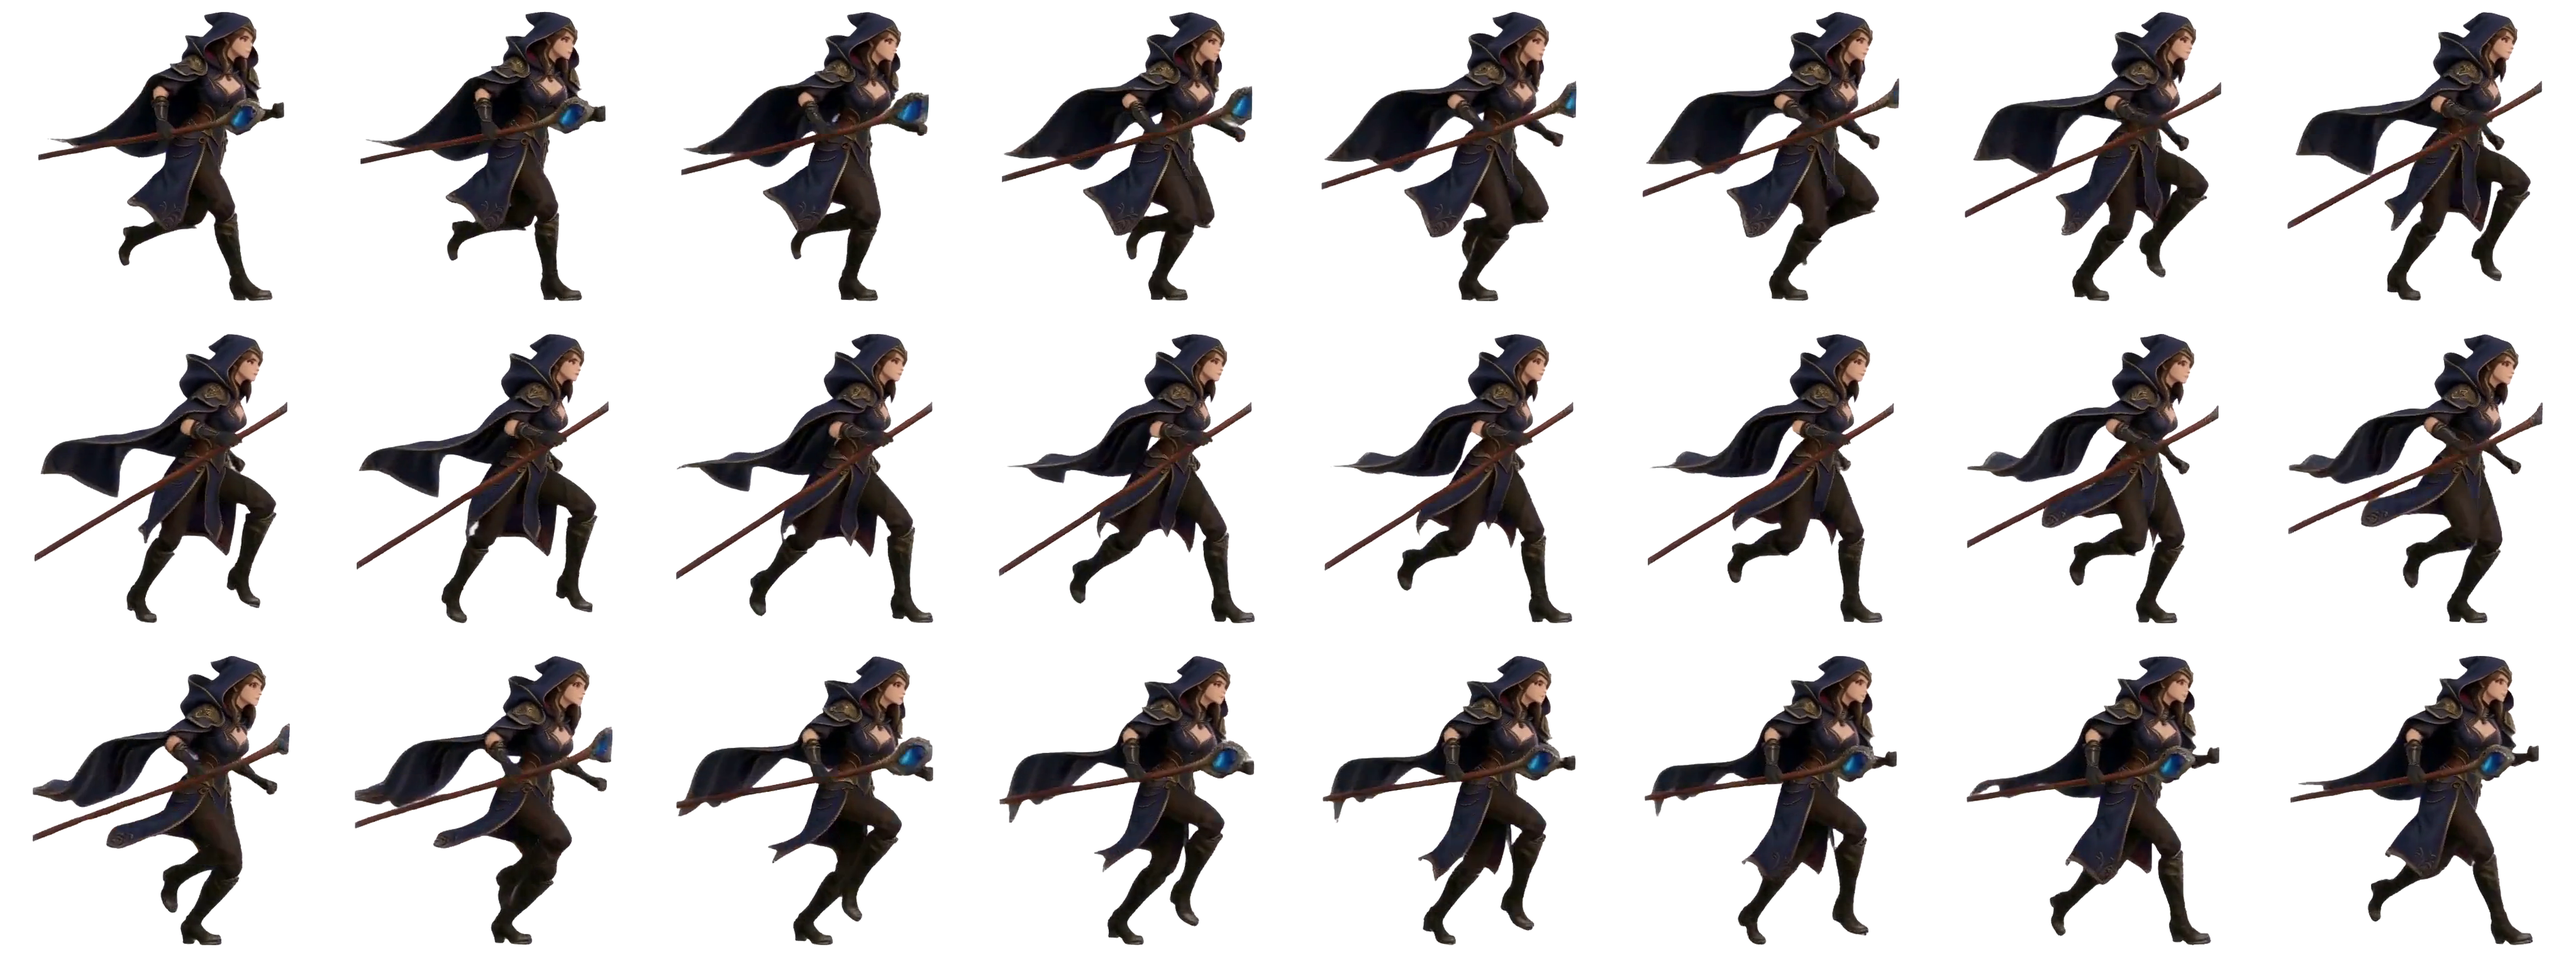
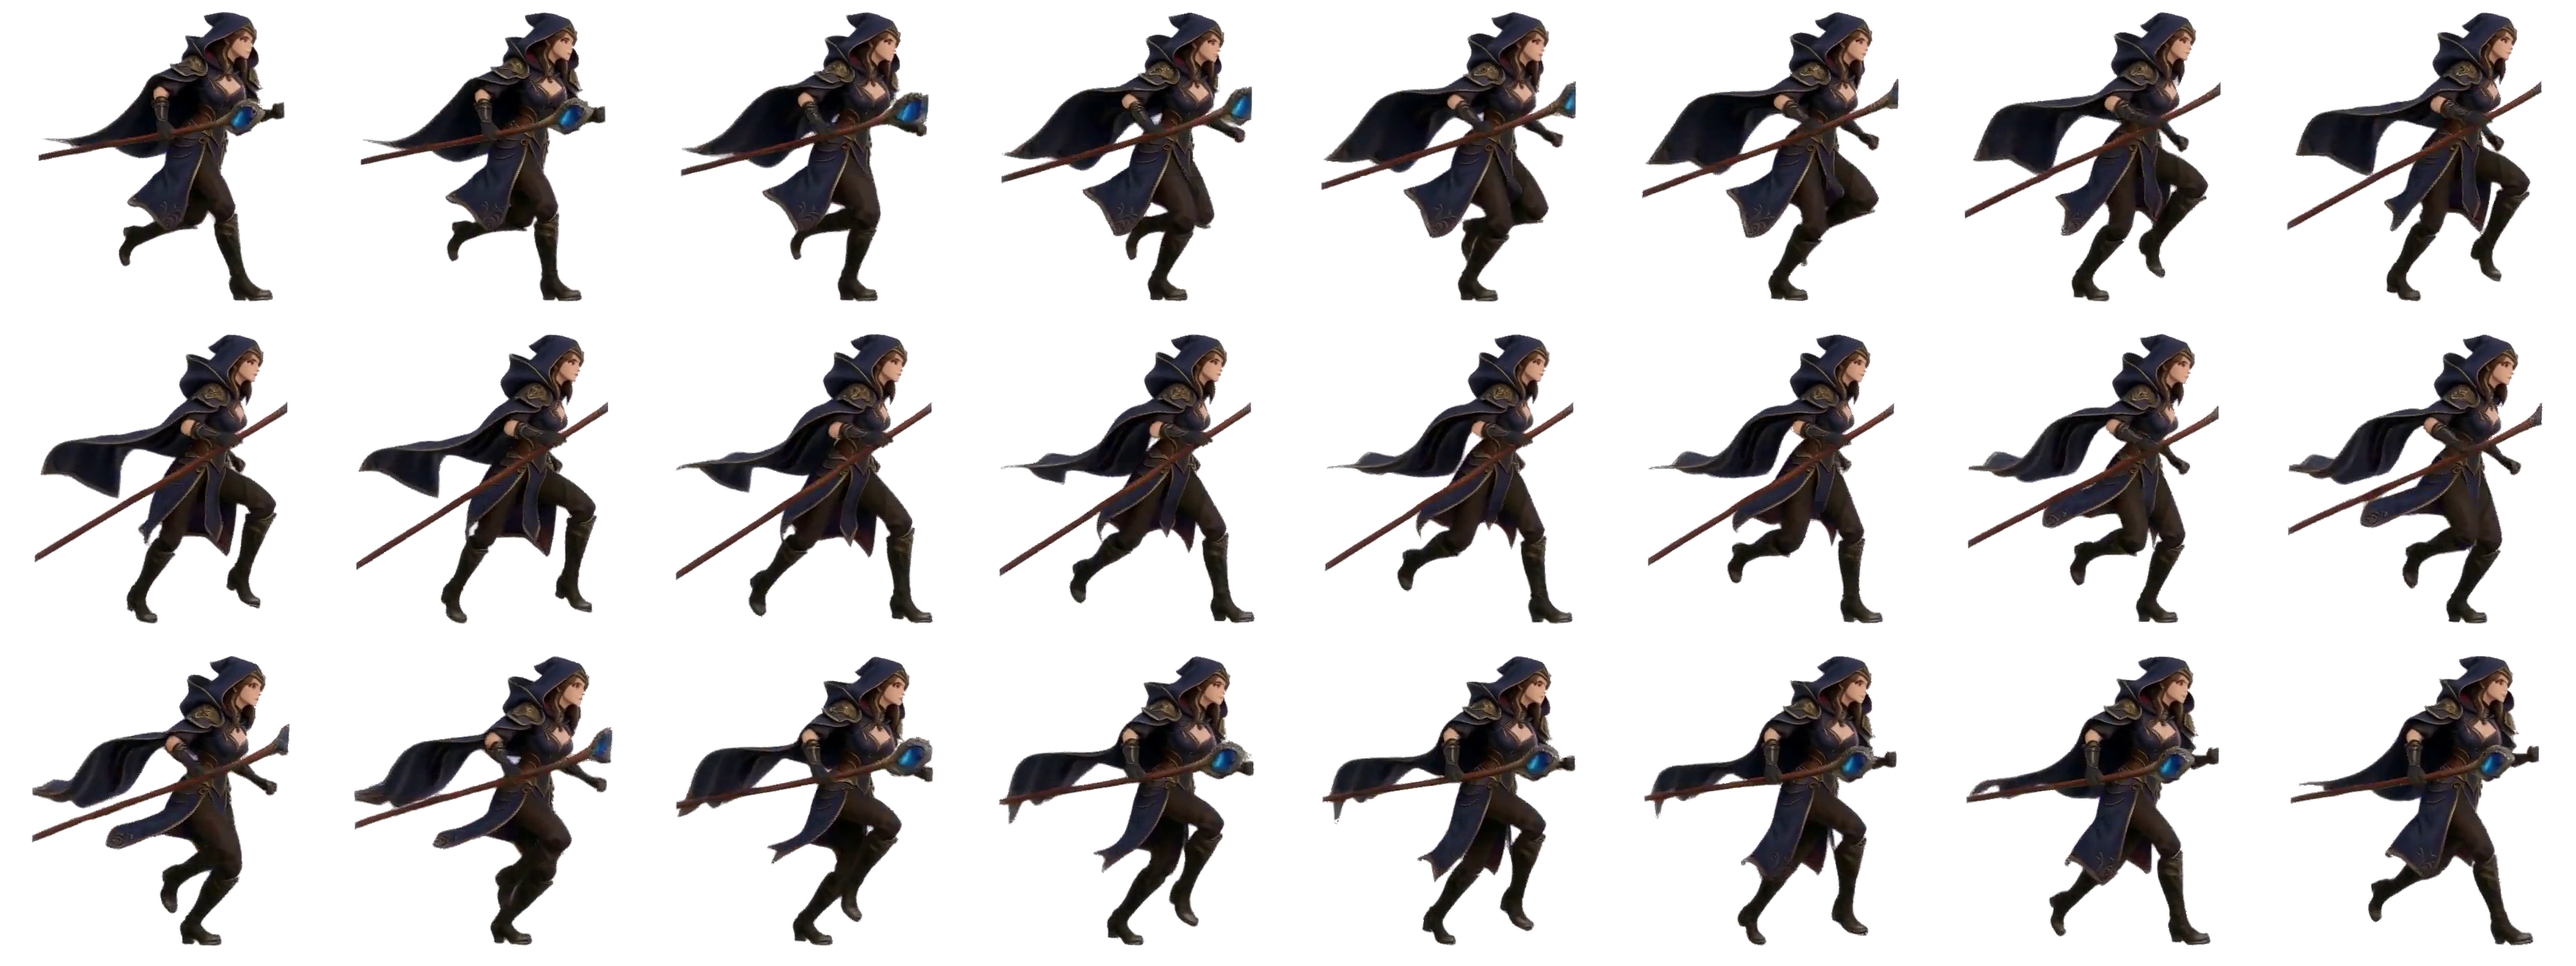
fix(companion): running 法杖尖端被 BiRefNet 羽化——融合抠图补回
Condensed 3 adjacent commits from the original history:
- a4f9738b chore(companion): 露娜奔跑动画游戏内截图探针（法杖完整性验证）
- eccf07d7 fix(companion): running 法杖尖端被 BiRefNet 羽化——融合抠图补回
- cc855d97 docs(skill): BiRefNet 细长物体尖端羽化排查与融合抠图方案沉淀

Changed region(s): [[0.1875, 0.0312, 0.2188, 0.0938], [0.5312, 0.5312, 0.5625, 0.5625], [0.0312, 0.8125, 0.0625, 0.8438]]

diff --git a/SKILL.md b/SKILL.md
@@ -5163,6 +5163,18 @@ lint / vite build / test-collider / test-config-integrity；实机验证 idle/wa
     按高度对齐后 idle 宽 175 vs walk 202-243，显得瘦小。折中：target_h 461→500、feet_y 505
     （宽 189、高 500，视觉面积约为 walk 的 92%）。**站立姿态窄是素材比例，强行宽度匹配会超高出格**。
     动画对齐基准：所有动画 frameWidth/frameHeight 512、显示由 spriteSize 控制。
+- **BiRefNet 细长物体尖端羽化（2026-08-14 十修，running 法杖尖端消失）**：
+  - 症状：游戏里 running 法杖尖端像被截掉一段；但源视频完整（BiRefNet alpha bbox 离右缘
+    300px+）、精灵图 bbox 无贴边、GLM 说"完整"——**所有常规检测都漏了**。
+  - 根因：BiRefNet 显著性分割对**细长尖端**支持弱——帧 30/31 法杖尖端 alpha 只有 166/171
+    （<74%），深色背景下尖端"半透明消失"，但 bbox(alpha>16) 和 max_x 检测都正常。
+  - 检测方法：**逐帧查尖端 max_alpha / 最右 5 列 alpha 均值 vs 前 10 列**——正常渐变
+    均值差 <30%，羽化帧差 >40% 且 max_alpha <200。
+  - 修复：**融合抠图**——`alpha_final = where(BiRefNet<190 & 阈值(gray<232)有深色, 阈值, BiRefNet)`，
+    只把 BiRefNet 漏掉的深色细节（法杖尖端）用阈值补回，主体仍走 BiRefNet；
+    再灰底判据清理白边。24 帧尖端 max_alpha 全 255，右5列均值 158→188+。
+  - 教训：**细长物体（法杖/武器/触角）抠图后必须查尖端 alpha 渐变**，不能只看 bbox；
+    GLM 对细长半透明尖端也判不准（两次矛盾），像素证据优先。
 
 ---
 
